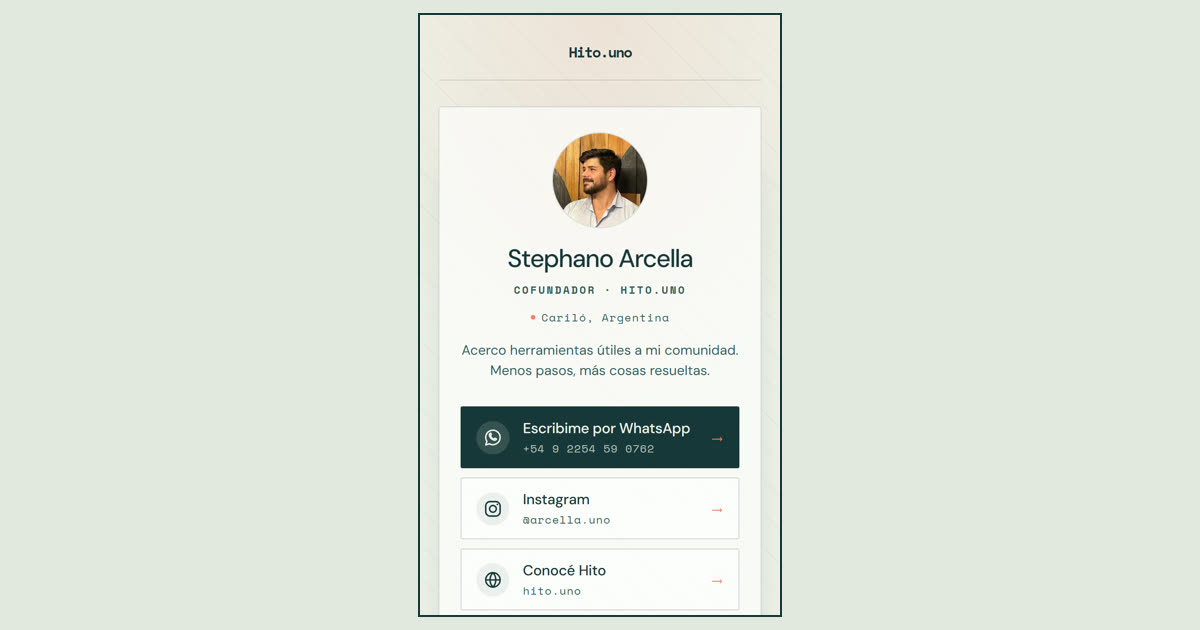
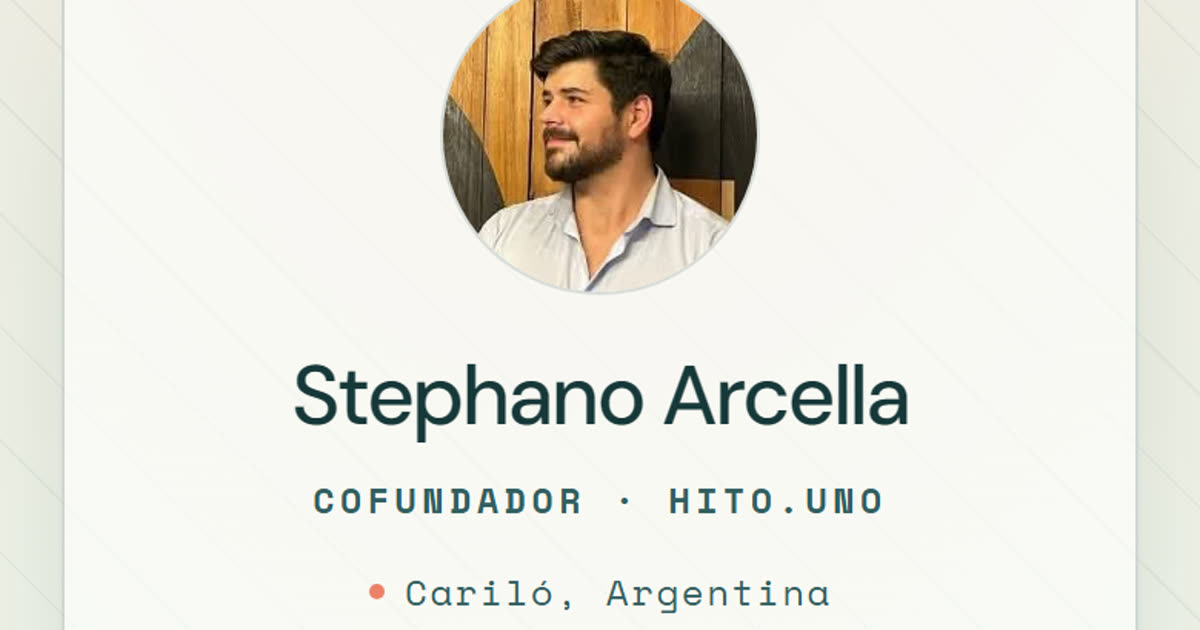
fix: las puertas de Personal y Software muestran un primer plano
Chat: ORQ 1

En la tarjeta, el celular entero se veia diminuto: la foto era mas fondo que
contenido. Ahora cada una es un recorte de la misma captura real, a la altura
que importa (el nombre en el perfil, "asi le llegaria al propietario" en la
demo), llenando el cuadro. La vista previa al compartir usa el mismo recorte.

diff --git a/src/landing/landing-data.ts b/src/landing/landing-data.ts
@@ -294,9 +294,8 @@ export const doors: Door[] = [
     status: 'Página disponible',
     photo: {
       src: '/images/puertas/personal-perfil.webp',
-      alt: 'Captura del perfil de muestra en un celular: foto, nombre, WhatsApp, Instagram y los botones Guardar contacto y Compartir',
+      alt: 'Primer plano del perfil de muestra en un celular: la foto, el nombre y el rubro',
       caption: 'Perfil de muestra · captura real',
-      focus: '50% 30%',
     },
   },
   {
@@ -347,9 +346,8 @@ export const doors: Door[] = [
     status: 'A medida',
     photo: {
       src: '/images/puertas/software-demo.webp',
-      alt: 'Captura de la demo de reservas en un celular: la consulta de un huésped y la planilla del propietario con dos renglones',
+      alt: 'Primer plano de la demo de reservas: "Así le llegaría al propietario", con el aviso de que en la demo no se envía nada',
       caption: 'Demo de reservas · captura real',
-      focus: '50% 20%',
     },
   },
 ]
